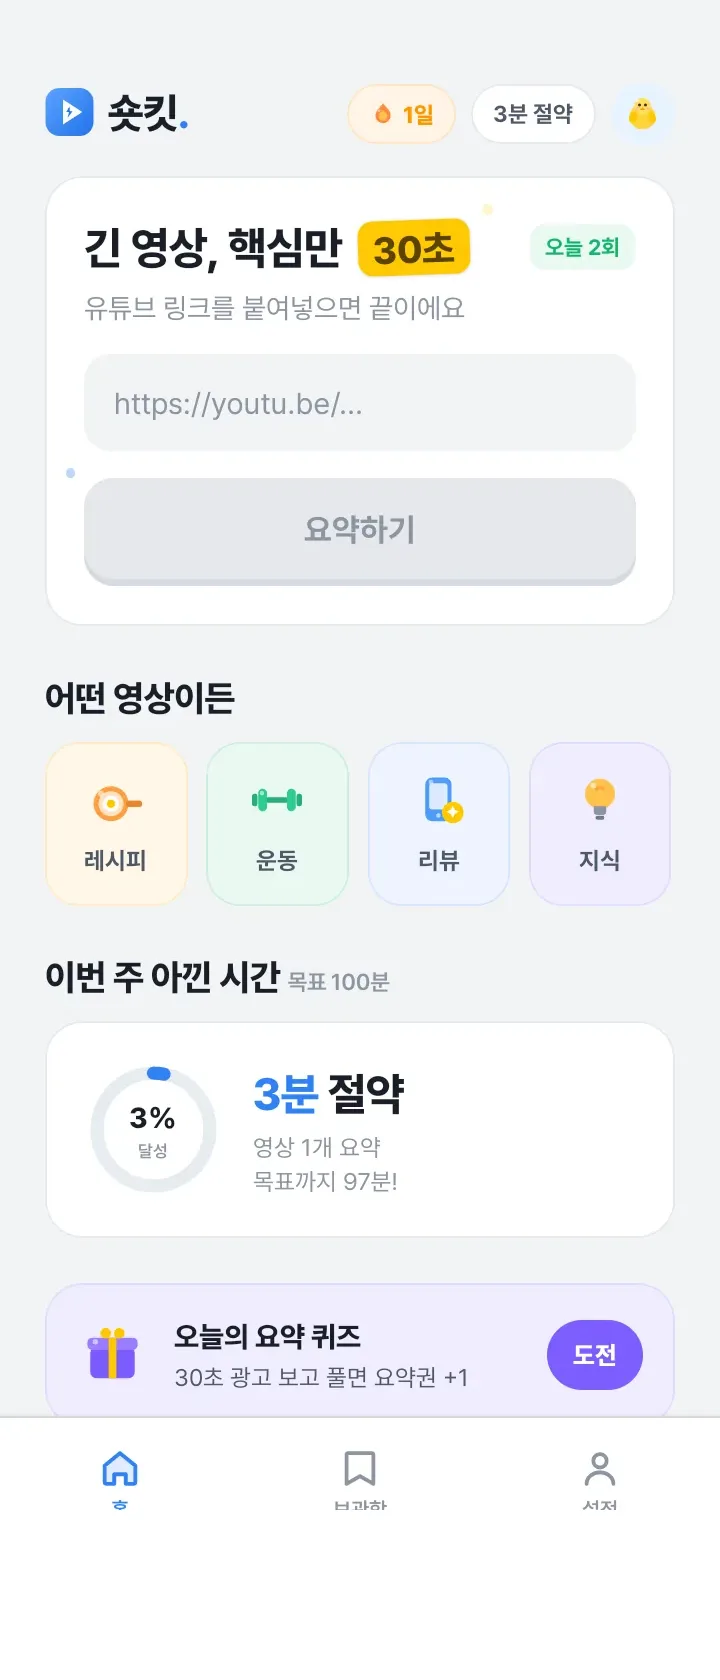
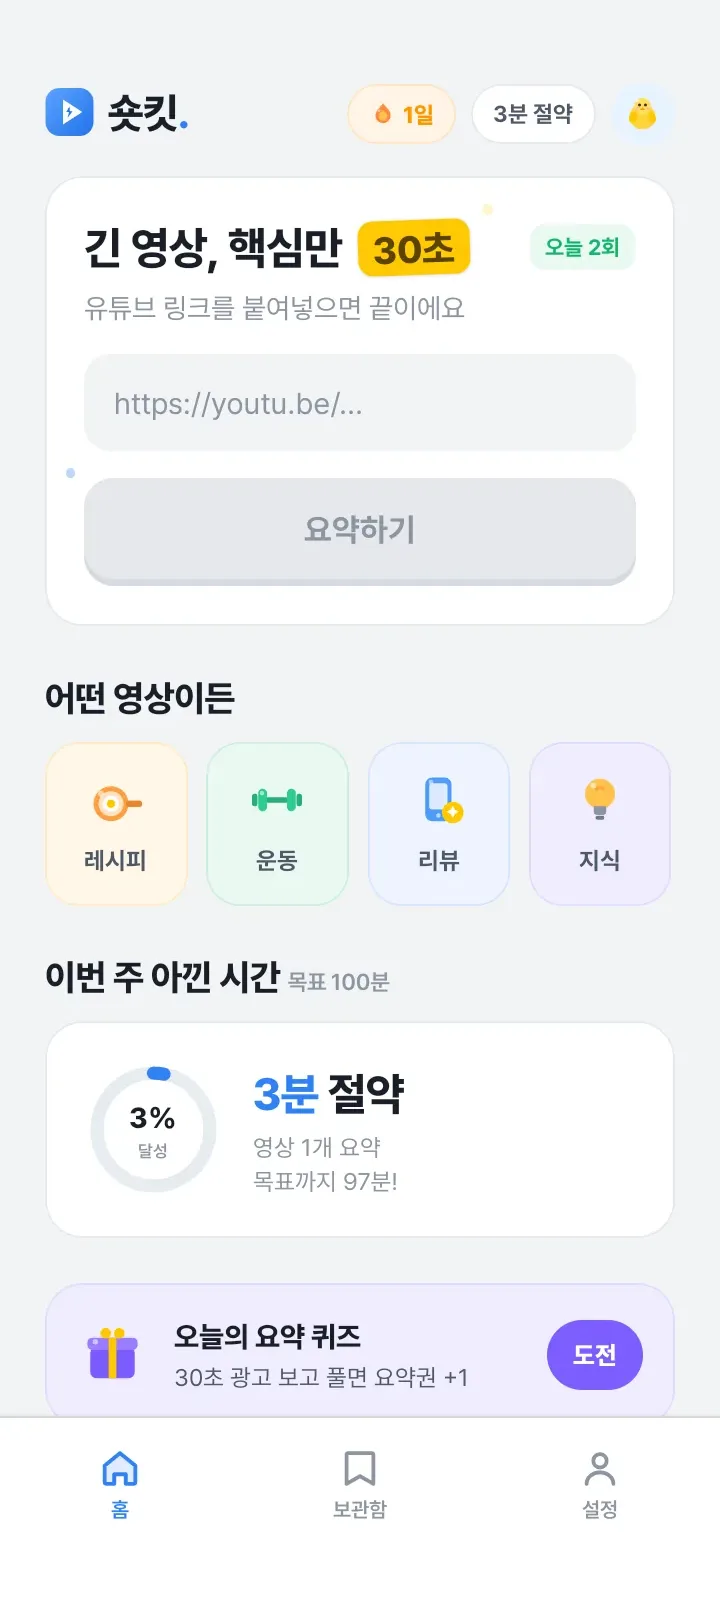
fix(shortkit): 탭바 라벨 글자 잘림 — 크롭 위치를 라벨 아래로(측정 기반)
- 진짜 원인: OS바 제거하려 원본을 y=1440에서 크롭했는데 탭바 라벨이 y=1446까지 있어
  글자 하단이 잘림("홈"→"ㅎ", "보관함"→"ㅂ과ㅎ"). 여백·contain 문제 아닌 크롭 오류.
- 픽셀 측정: 라벨 끝 y≈1446, OS바 시작 y≈1464 → 그 사이 1458에서 크롭.
- 해결: 크롭 1440→1458(라벨 온전 보존 + OS바 제거), aspect-ratio 720/1618 정합.
  Playwright 1920px로 라벨 "홈/보관함/설정" 온전·노치 비겹침·OS바 제거 검증.

diff --git a/src/sections/PromoSection.module.css b/src/sections/PromoSection.module.css
@@ -445,7 +445,7 @@
    이미지에 상단 70px(#f2f4f5 노치 회피)·하단 170px(#fff 탭바 여유) 여백을 내장.
    (대비 보정 highlight/step 색은 아래 유지) */
 :global(#promo-shortkit) .phone {
-  aspect-ratio: 720 / 1680;
+  aspect-ratio: 720 / 1618;
 }
 :global(#promo-shortkit) .phoneShot {
   object-fit: contain;
